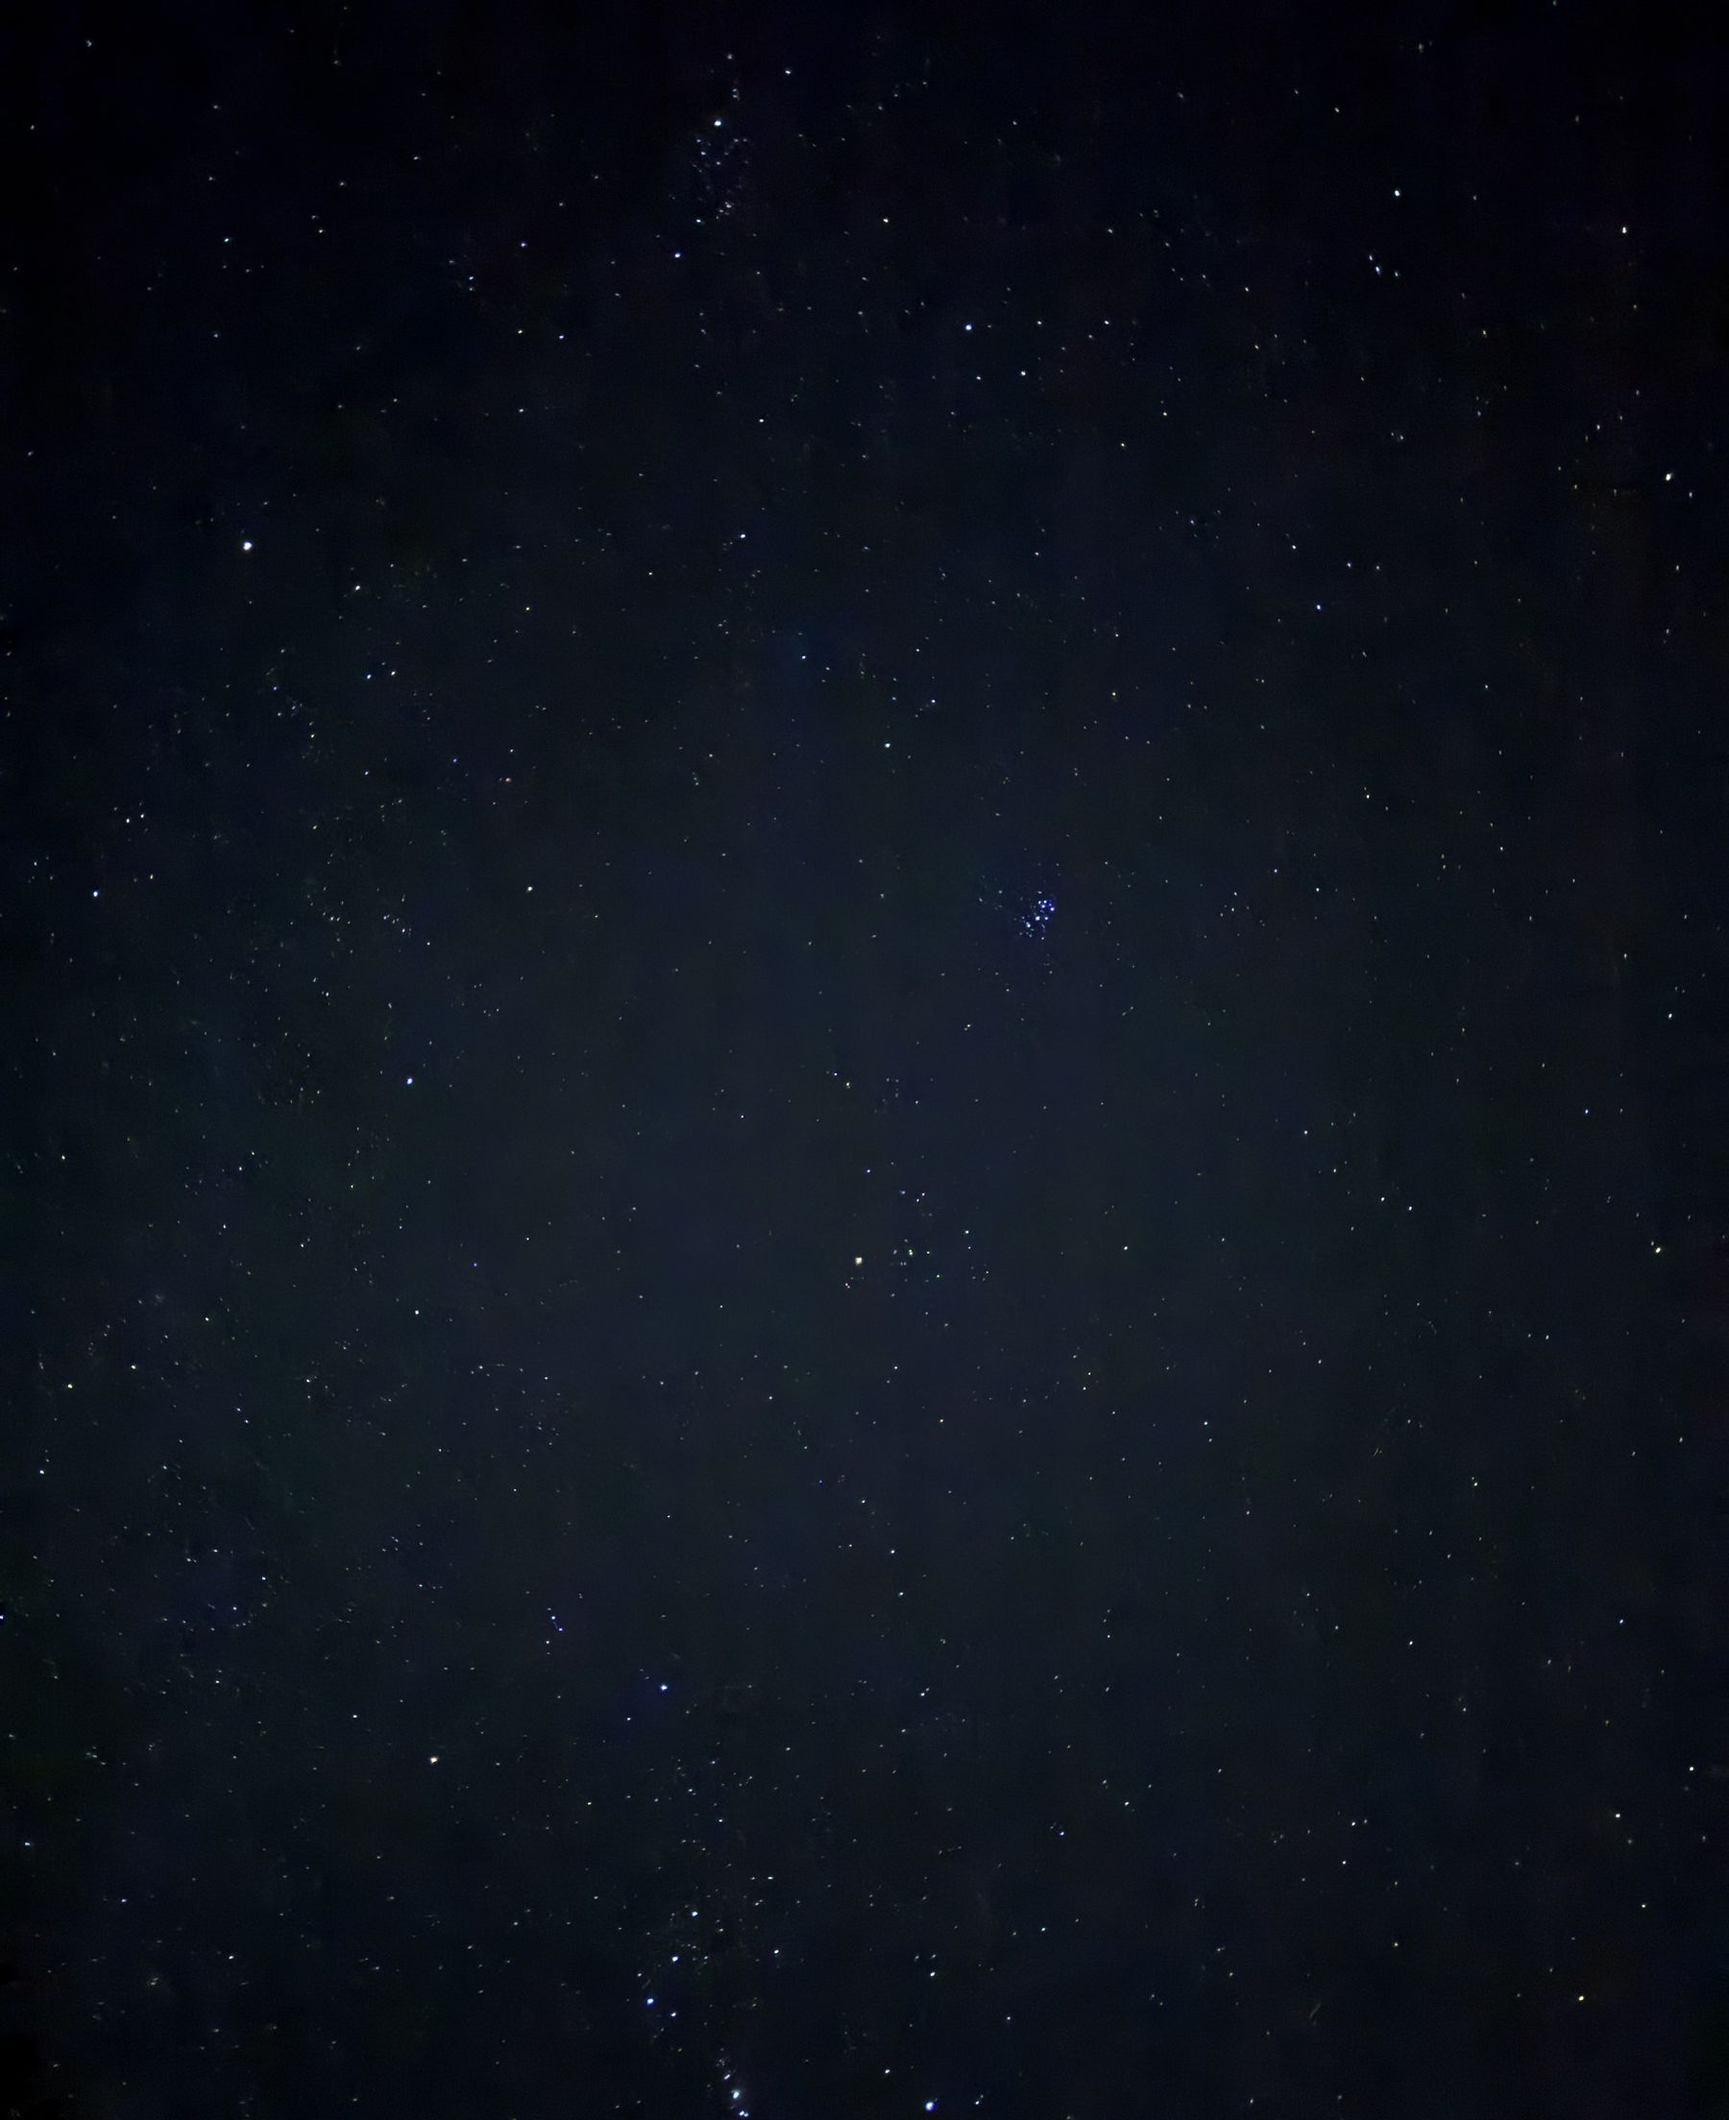
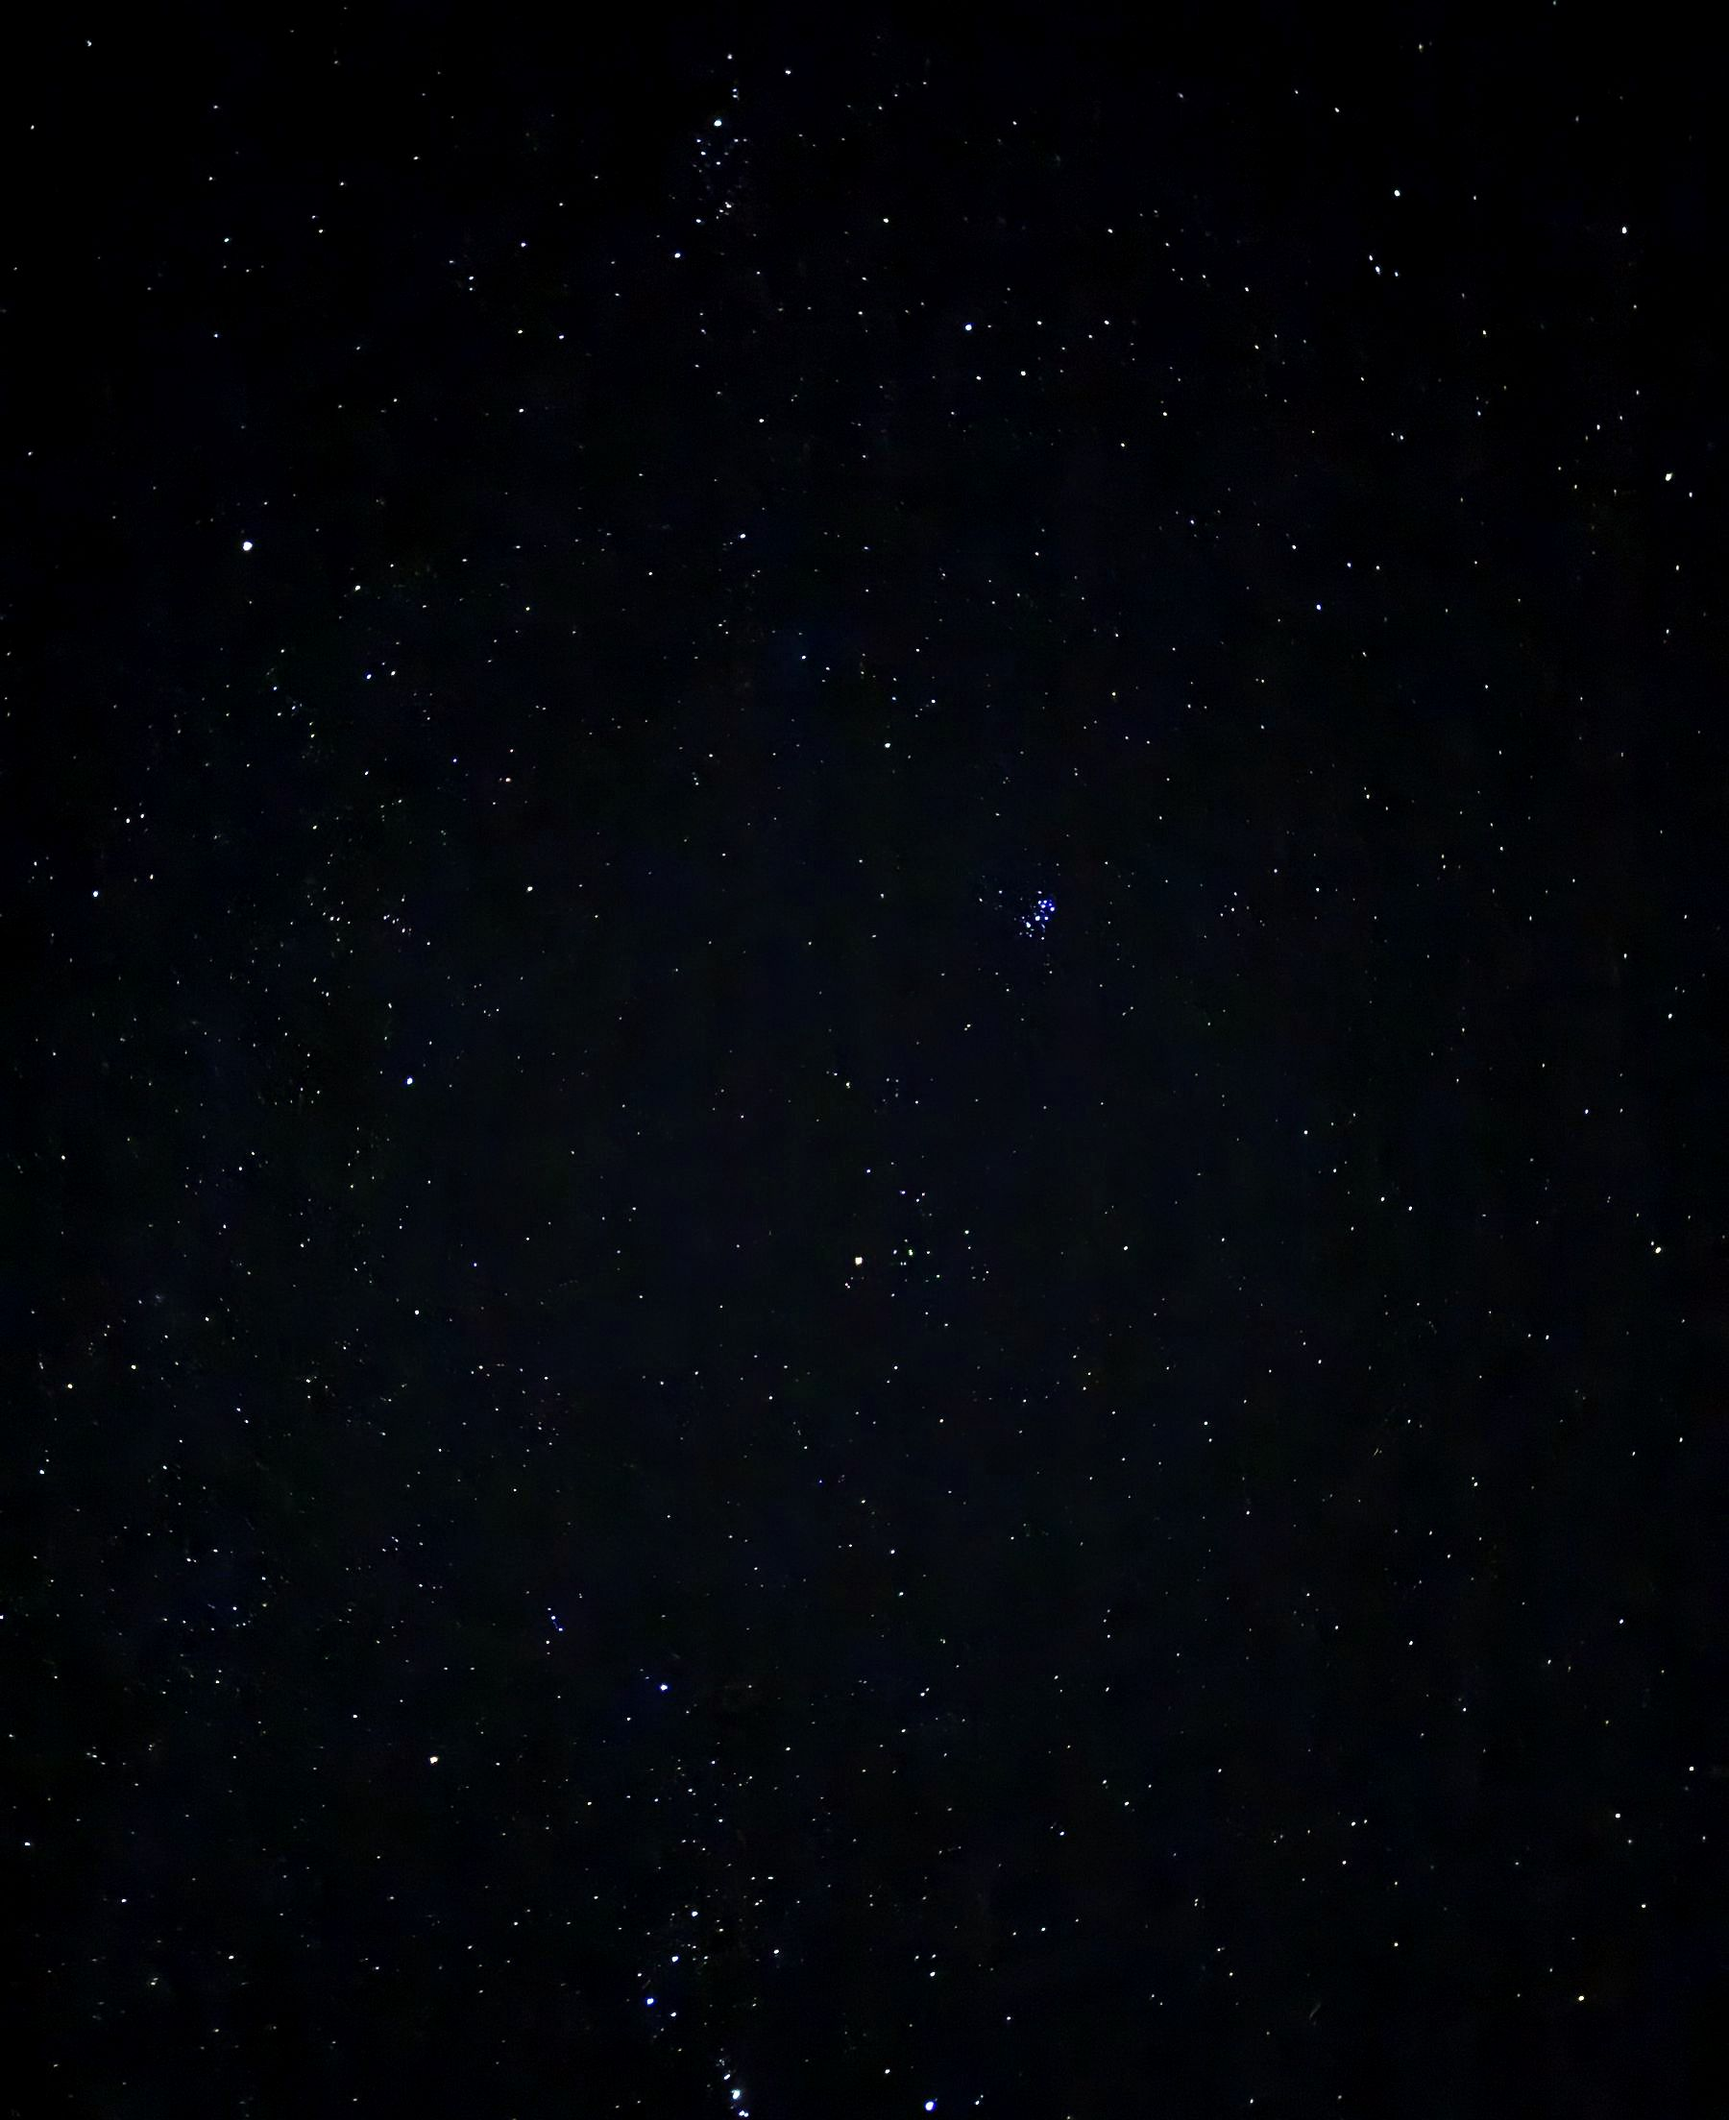
Sunset scroll: enhanced night photo; keep orange off the bottom edge for iOS Safari (task 4)

Changed region(s): [[0.2178, 0.3438, 0.7156, 0.75], [0.3733, 0.75, 0.4044, 0.7812]]

diff --git a/prototypes/sunset-scroll/index.html b/prototypes/sunset-scroll/index.html
@@ -4,9 +4,8 @@
 <meta charset="utf-8">
 <meta name="viewport" content="width=device-width, initial-scale=1">
 <title>Robot Lantern</title>
+<meta name="theme-color" content="#05070d">
 <meta name="description" content="Sunset scroll prototype for the robotlantern.com home page.">
-<script>/* Prototype only: ?stars=deep shows the enhanced night photo. */
-  if (new URLSearchParams(location.search).get('stars') === 'deep') document.documentElement.classList.add('deep');</script>
 <style>
   /* One number drives everything: --progress, 0 at the top of the page, 1 at the bottom. */
   :root {
@@ -37,9 +36,8 @@
       #3c5b88 0%, #395785 8%, #2c4675 20%, #1d325a 34%,
       #132343 48%, #0c1730 62%, #080f21 76%, #050914 90%, var(--night) 100%);
   }
-  /* Stars: RJ's night photo on a fixed layer that fades in over the sunset. Across the
-     whole scroll it drifts up only 6vh, so the sky reads as still. Add ?stars=deep to the
-     URL for the contrast-enhanced photo. */
+  /* Stars: RJ's night photo, contrast-enhanced, on a fixed layer that fades in over the
+     sunset. Across the whole scroll it drifts up only 6vh, so the sky reads as still. */
   .stars {
     position: fixed;
     left: 0;
@@ -51,7 +49,6 @@
     transform: translateY(calc(var(--progress) * -6vh));
     pointer-events: none;
   }
-  .deep .stars { background-image: url(night-deep.jpg); }
   /* Twinkle: three sparse layers of bright points pulsing on unrelated periods. */
   .twinkle {
     position: absolute;
@@ -87,9 +84,11 @@
 
   /* Fixed atmosphere: the warm horizon of the reference photo, then a dusky afterglow.
      Both follow --progress. */
+  /* They stop just short of the bottom edge, so no orange touches it: iOS Safari tints its
+     toolbar from whatever fixed layer meets the edge. */
   .horizon, .afterglow {
     position: fixed;
-    inset: 0;
+    inset: 0 0 4px;
     pointer-events: none;
   }
   .horizon {
@@ -109,6 +108,12 @@
     height: max(5.2vw, 56px);
     background: url(treeline.png) center bottom / auto 100% repeat-x;
     pointer-events: none;
+  }
+  .ground {
+    position: fixed;
+    inset: auto 0 0;
+    height: 4px;
+    background-color: #05070d;
   }
   .treeline::after {
     content: "";
@@ -257,6 +262,7 @@
   </nav>
 
   <div class="treeline" aria-hidden="true"></div>
+  <div class="ground" aria-hidden="true"></div>
 
   <script>
     (() => {

diff --git a/NOW.md b/NOW.md
@@ -26,7 +26,8 @@ Each task fits in one sitting or can stop cleanly partway. Pick any task that is
    - RJ's first review (2026-09-25) approved the colors, the lantern and the lettering, and asked
      for four changes: a "Scroll down" hint with chevrons, solid silhouette below the treeline,
      his night photo on a nearly fixed star layer, and an enhanced version of that photo. Round
-     two is up. Add `?stars=deep` to the URL for the enhanced photo. Waiting on RJ to pick one.
+     two is up. RJ picked the enhanced photo. Open: iOS Safari's toolbar showed orange at the
+     bottom; round three keeps orange off the bottom edge. Waiting on RJ to confirm on the phone.
    - Done when RJ says it matches the vision. Task 5 then moves it into the home page slot.
 5. **Scaffold and port** (after task 2).
    - Do: set up Astro on `rebuild`. Port the layout and behavior of the prototype's essay and
